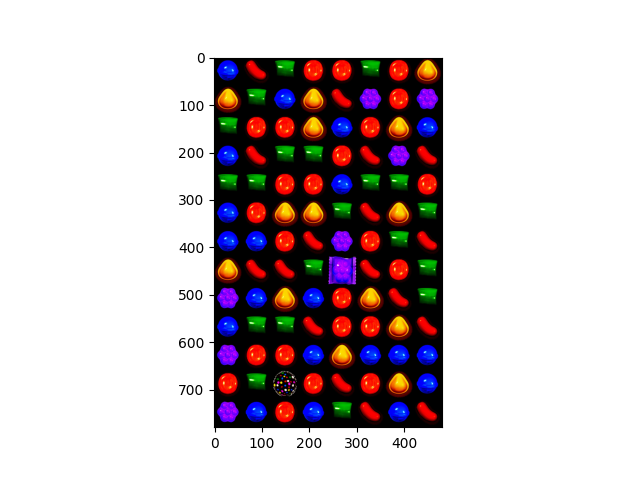
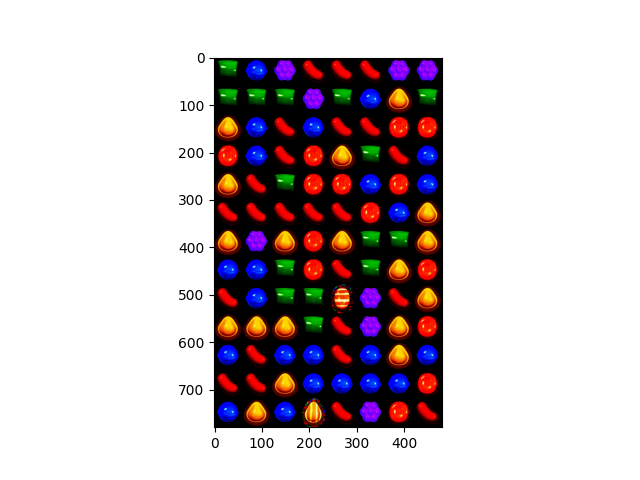
fix stide candy bug

Changed region(s): [[0.3125, 0.125, 0.6875, 0.9062]]

diff --git a/Window/Test.py b/Window/Test.py
@@ -24,19 +24,19 @@ state = env.reset()
 # )
 
 env.state = np.array(
-[[ 4, 2, 2, 2, 2, 4, 2, 3],
- [ 5, 1, 4, 3, 1, 6, 2, 6],
- [ 4, 4, 2, 3, 5, 2, 3, 5],
- [ 5, 2, 3, 4, 2, 1, 6, 1],
- [ 5, 5, 2, 2, 5, 4, 4, 2],
- [ 3, 1, 1, 3, 4, 1, 3, 4],
- [ 6, 5, 3, 1, 6, 2, 4, 1],
- [ 5, 4, 4, 4,12, 1, 2, 4],
- [ 3, 3, 3, 5, 2, 3, 1, 4],
- [ 3, 3, 3, 1, 2, 2, 3, 1],
- [ 6, 2, 2, 5, 3, 5, 5, 5],
- [ 2, 4,25, 2, 1, 2, 3, 5],
- [ 6, 5, 2, 5, 4, 1, 5, 1]]
+[[ 4, 4, 4, 5, 4, 5, 3, 4],
+ [ 3, 5, 1, 2, 1, 1, 2, 2],
+ [ 2, 5, 1, 2, 3, 4, 1, 5],
+ [ 3, 1, 4, 1, 2, 5, 2, 5],
+ [ 1, 1, 1, 2, 1, 2, 5, 3],
+ [ 3, 6, 3, 2, 3, 4, 4, 3],
+ [ 5, 5, 4, 4, 1, 4, 3, 2],
+ [ 1, 5, 4, 4,14, 6, 1, 3],
+ [ 3, 3, 3, 5, 1, 6, 3, 2],
+ [ 5, 1, 5, 5, 1, 5, 3, 5],
+ [ 5, 6, 6, 2,14, 6, 1, 2],
+ [ 1, 1, 3, 2, 5, 5, 5, 2],
+ [ 5, 3, 5,21, 1, 6, 2, 1]]
 )
 
 
@@ -46,7 +46,7 @@ state_img = stateToImageConverter(env.state)
 plt.imshow(state_img)
 plt.savefig("test1.png")
 
-env.step(48)
+env.step(120)
 
 state_img = stateToImageConverter(env.state)
 plt.imshow(state_img)

diff --git a/CandyCrushGym.py b/CandyCrushGym.py
@@ -875,7 +875,6 @@ class CandyCrushGym(gym.Env):
             for y0, x0 in list_rows:
                 
                 if self.state[y0, x0] == -1:
-                    print("break")
                     self.state = state
                     return 0 
 
